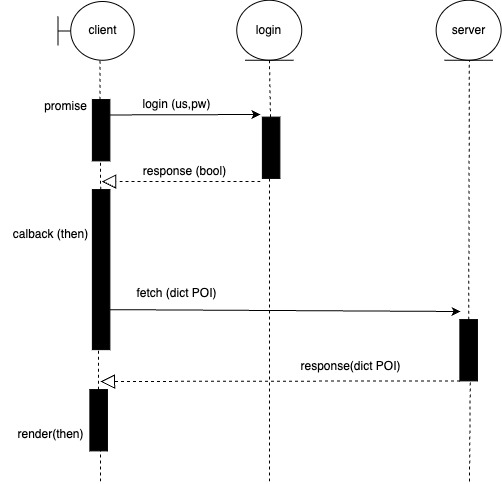
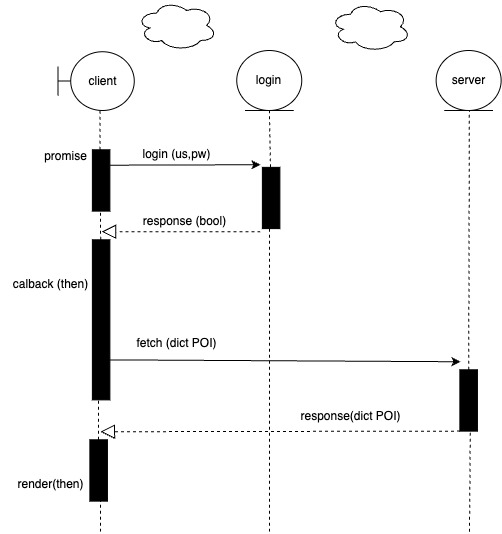
last-modify

diff --git a/index.html b/index.html
@@ -150,6 +150,7 @@
           <section id="umlsequenza">
             <h2>Diagramma di Sequenza</h2>
             <img src="uml/sequenza.jpg" />
+            <img src="uml/sequenza2.jpg" alt="">
 
           </section>
 
